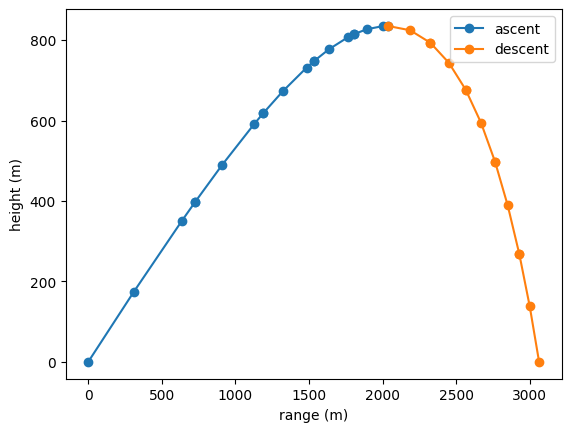
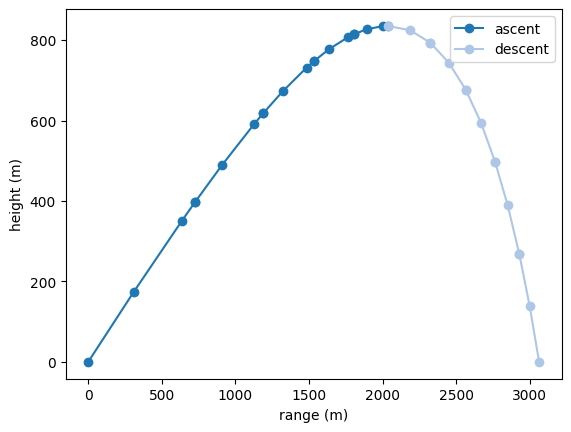
making colors match

diff --git a/joss/paper.md b/joss/paper.md
@@ -576,8 +576,9 @@ if __name__ == "__main__":
     y0 = p.get_val('traj.ascent.timeseries.states:h', units='m')
     x1 = p.get_val('traj.descent.timeseries.states:r', units='m')
     y1 = p.get_val('traj.descent.timeseries.states:h', units='m')
-    ax.plot(x0,y0, marker='o', label='ascent')
-    ax.plot(x1,y1, marker='o', label='descent')
+    tab20 = plt.cm.get_cmap('tab20').colors
+    ax.plot(x0,y0, marker='o', label='ascent', color=tab20[0])
+    ax.plot(x1,y1, marker='o', label='descent', color=tab20[1])
     ax.legend(loc='best')
     ax.set_xlabel('range (m)')
     ax.set_ylabel('height (m)')
